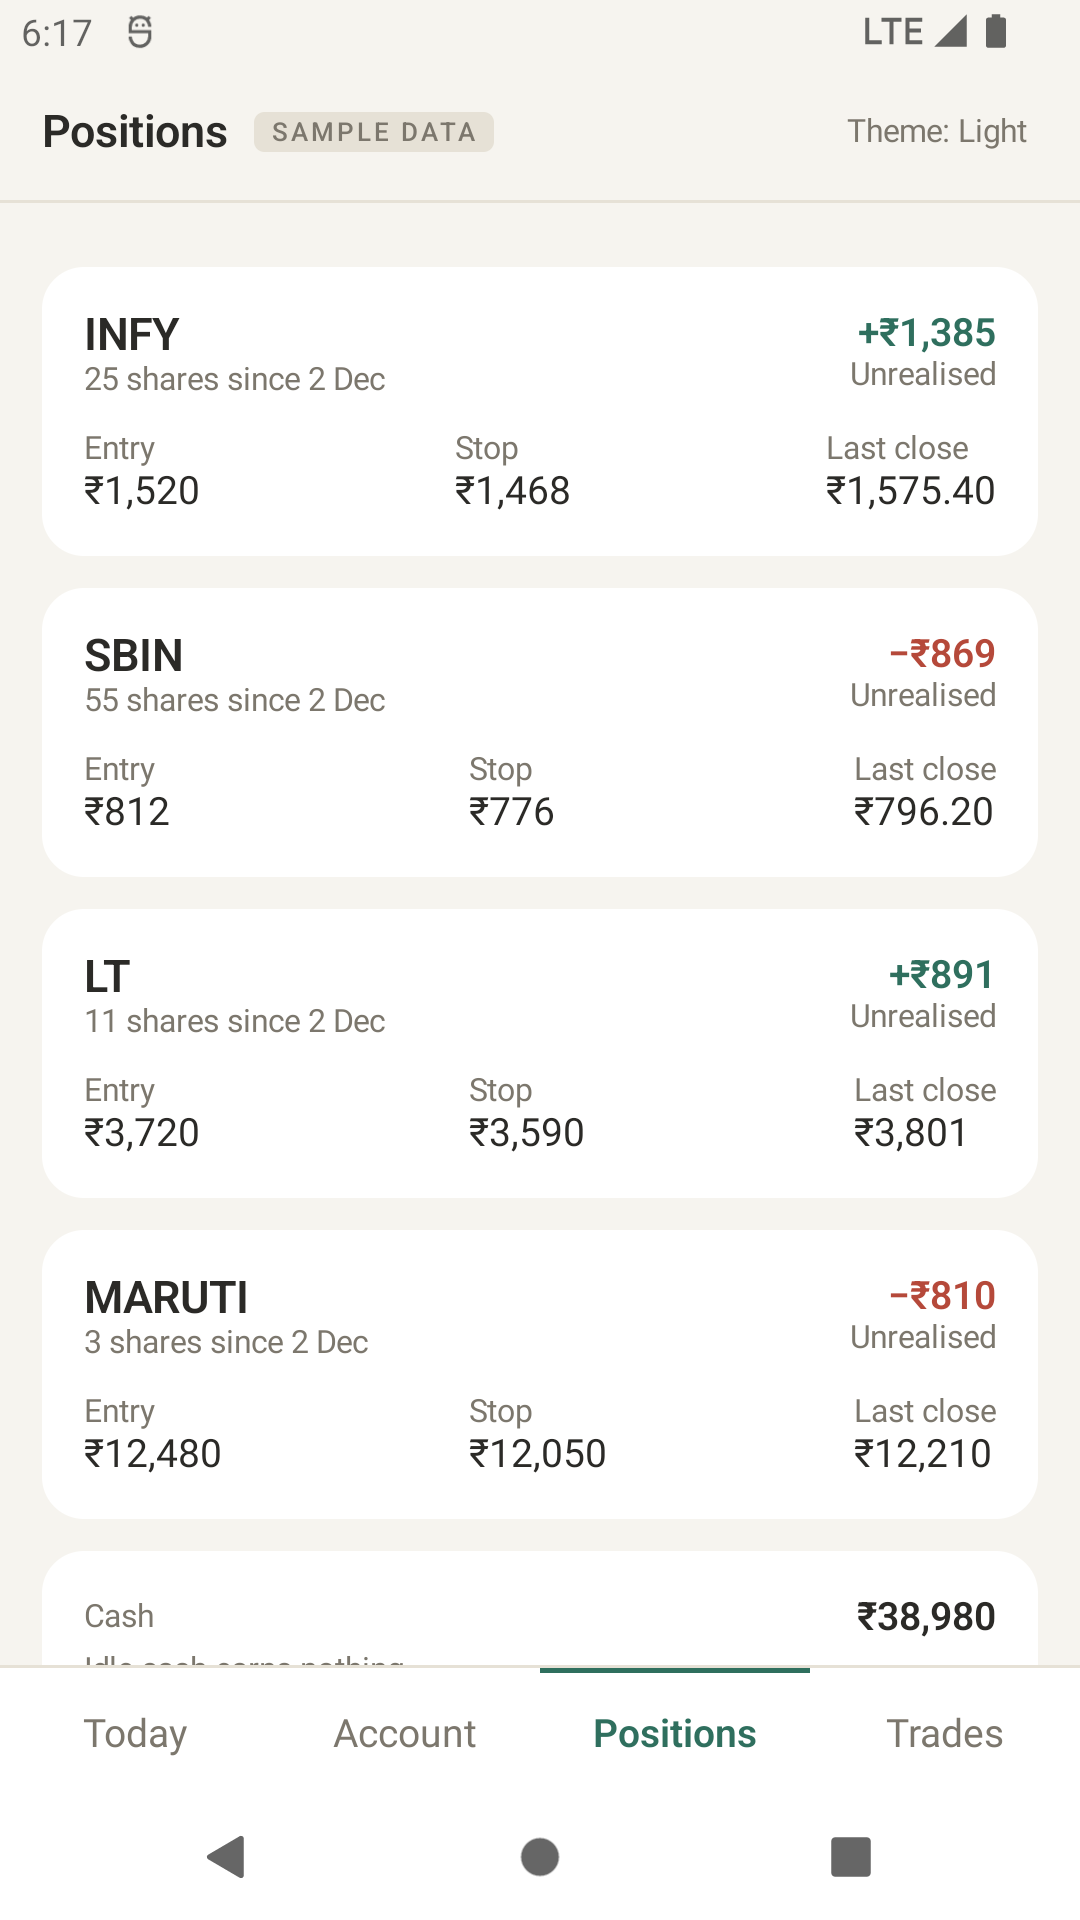
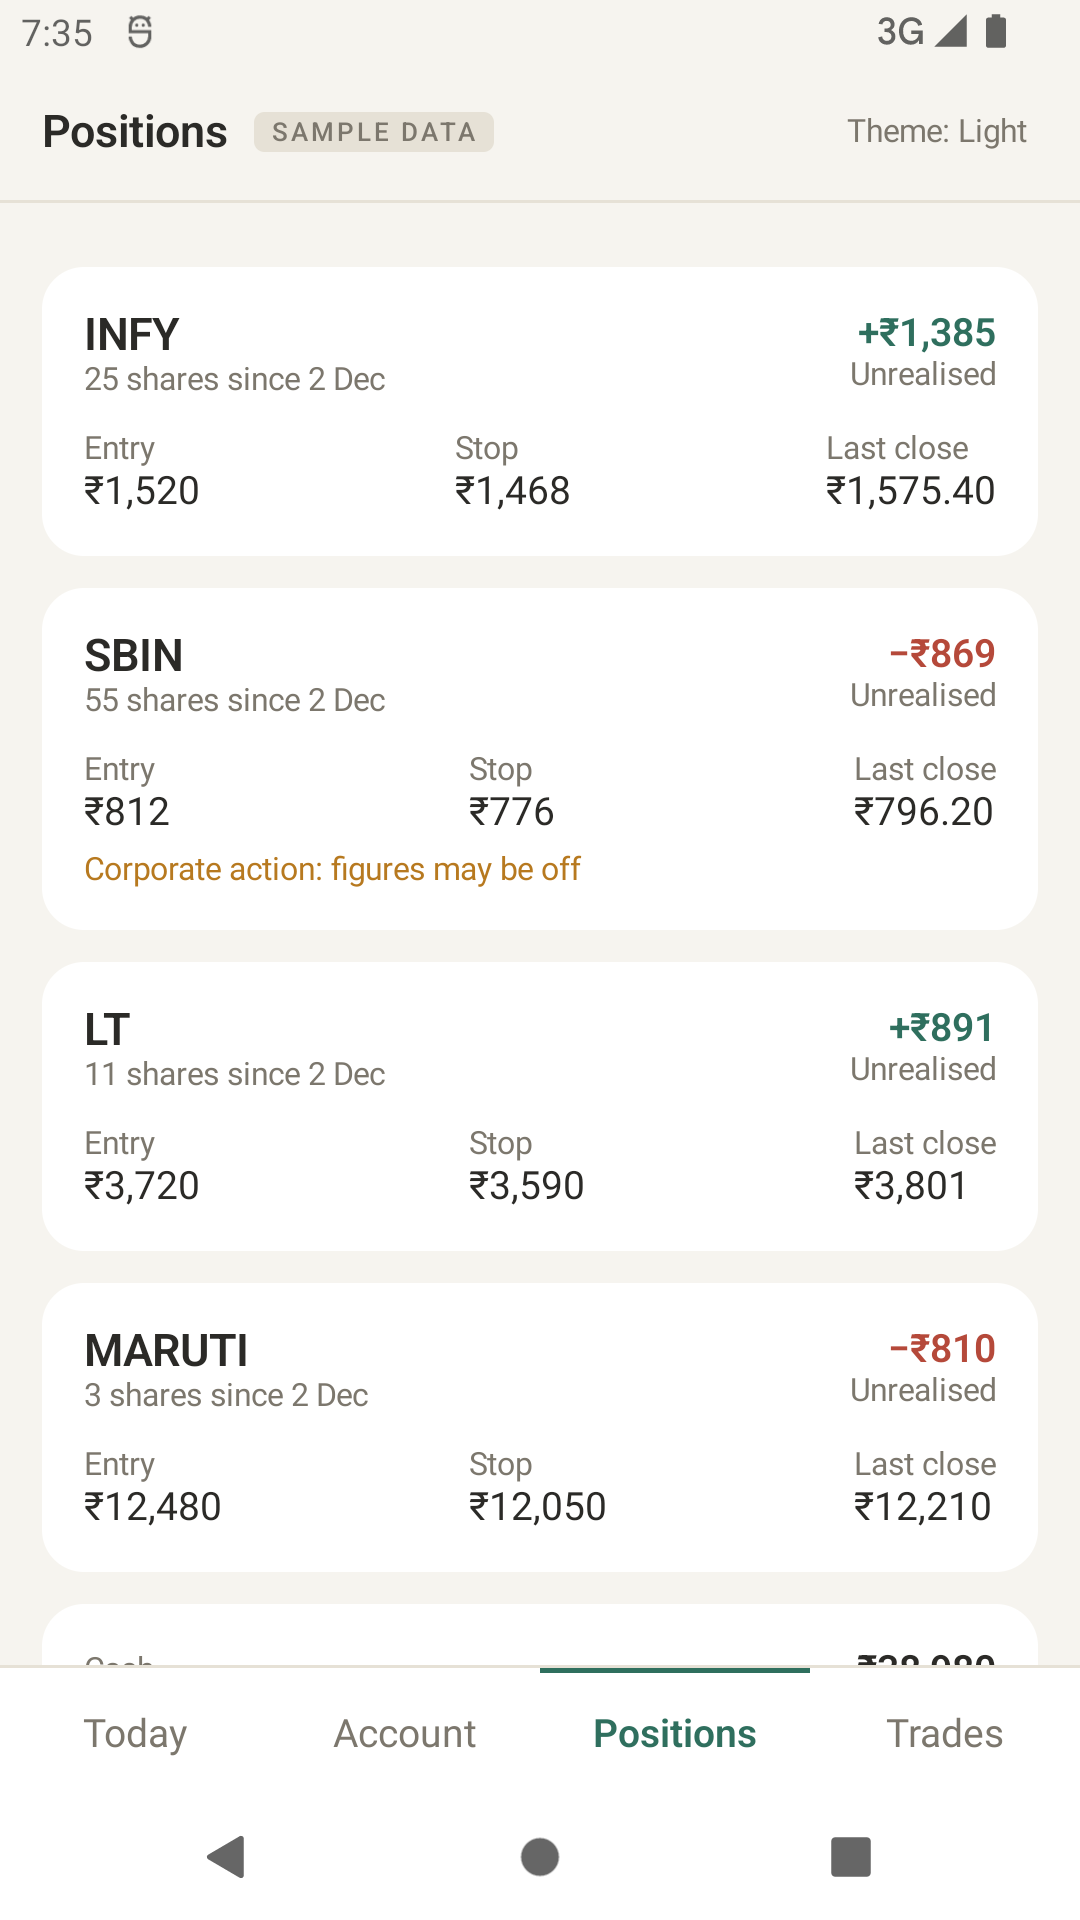
Stage 3: report, screenshots for the corporate-action note and footer

diff --git a/docs/bff/STAGE3_REPORT.md b/docs/bff/STAGE3_REPORT.md
@@ -1,0 +1,87 @@
+# Stage 3 report: the paper BFF
+
+## Summary
+
+The paper BFF is built and tested: a read-only FastAPI service in `bff\` that serves the frozen contract (apiVersion 1) from the paper state, the tickets folder and the lake, to the Android app (not connected yet; stage 4). A smoke run against the real data passed, and the service was stopped afterwards.
+
+- **Part A (additive contract change, done):** every closed trade is listed and counted in `closedTrades` and toward the 30-trade mark, flagged or not. A trade the engine flagged (`excluded_ca`) carries `corporateActionFlag: true`; win rate and profit factor leave flagged trades out; `stats.excludedFromStats` says how many. A position held by hand (`hold`) carries `corporateActionFlag: true`. Fields default to false and 0, so v1 stays compatible. In `openapi.yaml`, `CONTRACT.md`, the examples (exactly one flagged trade, ASIANPAINT in `trades_trades.json`, and one flagged position, SBIN in `positions_positions.json`), the app models, the card note "Corporate action: figures may be off", the Trades footer line "1 trade excluded: corporate action" (only when above zero) and the tests. The Trades footer now reads "45% (5 of 11)" because it divides by the unflagged trades; the example's profit factor is 1.62 (it was 1.4 before one loss was flagged).
+- **Part B (done):** `bff\app.py`, `run.py`, `sources.py`, `builders.py`, `models.py`, `config.py`, `smoke.py`, `paper_marks.yaml`; 212 new tests in `tests\bff\`; `docs\bff\README.md`; two rows in `docs\guides\CODEBASE_GUIDE.md`.
+- **Nothing existing changed:** no existing Python file was touched; the branch adds files under `bff\`, `tests\bff\`, `docs\bff\` and changes files under `android\` and `docs\android\`, plus the two guide rows.
+- **Left running:** nothing. The BFF is stopped. The token file is at `F:\Projects\Ravi\StockBotData\bff\token.txt` (created once, 32 random bytes as hex; never printed, logged or committed).
+
+## What was built
+
+| Piece | Notes |
+|---|---|
+| `GET /v1/health`, `/today`, `/account`, `/positions`, `/trades` | Exactly per `openapi.yaml`. Header `X-Paper-Token`, compared in constant time. 401 UNAUTHORIZED, 503 NOT_READY, 500 SERVER_ERROR, 404 (error body) for unknown routes, 405 for any write method. |
+| Network | Binds `STOCKBOT_BFF_HOST` (default 127.0.0.1) and `STOCKBOT_BFF_PORT` (default 8765; checked free; `run.py` exits 3 if it is not). TrustedHostMiddleware (default localhost and 127.0.0.1). No CORS unless `STOCKBOT_BFF_CORS` lists origins. Rotating access log `F:\Projects\Ravi\StockBotData\logs\bff.log` (path, status, time; headers never logged). |
+| Refusal to start | No token in `STOCKBOT_BFF_TOKEN` or the token file: exit 2. |
+| Data layer | Read-only connections (`mode=ro` plus `query_only`), 3 s busy timeout, one retry, then 503; nothing held between requests; lock files never read or written. |
+| Builders | Pure functions: fold the journal, rebuild positions, cash, closed trades and the daily curve; all money in whole paise. |
+| Caching | Built responses cached on (mtime and size of `live_state.db`, lake sealed-through date); `expectedAsOf` and `generatedAt` refreshed per request. No threads, no scheduler. |
+| `bff\smoke.py` | Calls every endpoint on a running instance, checks statuses, envelope, reconciliation, 401 and 404. |
+
+## How each gap in `SOURCE_MAP.md` was resolved
+
+(The map lists 15; the stage 2 report grouped the last four as "12 to 15".)
+
+1. **Paise.** `to_paise` rounds half up on the decimal text of the float, once per stored value. Totals are sums of those integers: equity = cash + sum(shares x last-close paise); unrealised = shares x (last - entry) paise; ticket risk = shares x (reference - stop) paise. The identities hold exactly (tests).
+2. **Start date and daily curve.** Start date = the first processed session (the earliest `decisions` row; the `init` row has no real date). The curve covers the lake's Nifty trading days from the start date to the data date; each day takes the state after the last processed session on or before it and marks open positions at that day's lake `close_raw` (falling back to the latest earlier close, then to the engine's own `last_close`). A missing Nifty close on the start or data date gives 503, not a guess.
+3. **Nifty rebasing.** `rebase`: starting capital in paise x close / close on the start date, half up, in `Decimal`.
+4. **GAP_THROUGH_STOP.** A `STOP_HIT` closed trade becomes `GAP_THROUGH_STOP` when the `decisions` row of its exit session holds a `GAP_THROUGH_STOP` flag for the same symbol; a flag for another symbol or another day does not count (tests).
+5. **Block reasons.** `BLOCKED_BY_RISK(sector_...)` is SECTOR_CAP; `(positions:...)`, `(total_risk:...)` and plain `BLOCKED_BY_RISK` are RISK_CAP; `SIZE_ZERO` at stage fill is CASH; everything else is OTHER (the full table is tested label by label). Sector comes from `data\reference\sector_map.csv` through the repository's `sector_for`; an `UNMAPPED:` value is sent as null.
+6. **expectedAsOf.** See the next section.
+7. **Review marks.** `bff\paper_marks.yaml`: 35.0 percent, 30 trades, verdict `NOT_DEMONSTRATED`, sent as "not demonstrated". The risk per trade is read from `shared.yaml`.
+8. **Signal day.** `isSignalDay` is true when there are tickets, else the repository's own `is_signal_session` run on the lake's last two Nifty dates (imported lazily and warmed at start; it takes about 9 s the first time). `nextSignalRule` is the constant "first trading day of next month".
+9. **Drawdown history.** Now and worst come from the daily curve: running peak of the daily equity at the close, two decimals, positive.
+10. **Closed-trade definition.** Owner decision (Part A): all trades listed and counted; flagged ones excluded from the win rate and profit factor.
+11. **Reads during the jobs.** Read-only connections, 3 s timeout, one retry, then 503 NOT_READY; no lock is taken. Tested with an exclusive lock held on the lake.
+12. **Held-by-hand positions.** Listed, with `corporateActionFlag: true`.
+13. **Sector for a position.** Not sent (the app does not show it).
+14. **Pending-exit text.** A position with `pending_exit > 0` is a pending SELL: "Time exit queued at the close", "Stop exit queued at the close" or "Exit queued at the close". There are no pending BUYs (a pending ticket is always the signal day's own ticket, already in `tickets`).
+15. **Auth and hosting.** Token and trusted hosts are built; hosting and the Tailscale address are stage 4.
+
+## The expectedAsOf rule and its limit
+
+`expectedAsOf` = start from today if it is 20:30 IST or later, otherwise from yesterday; then step back over weekends and over days the daily data job recorded as having no file (`daily\calendar.csv`, outcome `NO_FILE` or `NO_FILE_FINAL`, unless a later row shows the day loaded). `dataAsOf` = the newest session the paper account has processed.
+
+**Limit:** a holiday the data job has not recorded yet looks like a missing day. The job records a no-file day only after its attempts (a day stays PENDING until 23:45), so on a new weekday holiday the app can show "Updated N days ago" until the job has recorded it. Weekends and recorded holidays are never wrong. Before 20:30 on a day whose job has not run, data from the previous trading day is correct, not stale.
+
+## Tests
+
+- `py -m pytest tests\bff`: **212 passed** (about 20 s; 9 s of that is the one-time load of the strategy for the signal-day function). Temporary files only; the real state and lake are never opened.
+- Covered: every endpoint for each of the six scenarios against the shape of its example (same keys and types, enums valid); every reconciliation rule; flagged trades and positions; GAP_THROUGH_STOP join; block and exit reason tables; `expectedAsOf` (Friday data on a Monday morning, 20:30 cutoff, weekends, recorded holidays, the documented limit); money rounding; Nifty rebasing; drawdowns; stats with flagged, empty and no-loss cases; 401 for a missing, empty or wrong token on every endpoint; 404 and 405 with the error body; 503 for a missing state, an uninitialised state, a locked lake and a missing Nifty day; 500 without leaking text; wrong Host refused; no CORS by default; read-only proof (create, insert, delete and drop all raise); no file in the state, tickets or lake folders changes while serving; the token never appears in the log or a repr; cache hit, rebuild on a changed key, fresh envelope times on a hit; refusal to start without a token; a static guard that `bff\*.py` has no write SQL, no lock code, no `stockbot.live` import and no broker or order code.
+- `tests\bff\test_contract_models.py` validates every example file against the pydantic models, round-trips them, and checks that the models' fields and enums match `openapi.yaml`: the contract is the single source.
+- Guide test only: `py -m pytest tests\unit\test_guides_consistent.py`: 11 passed, 1 skipped (needs `STOCKBOT_DATA_TESTS=1`). The full suite was not run.
+- Android: `gradlew test assembleDebug lintDebug --no-daemon`: BUILD SUCCESSFUL; 49 JVM tests, 0 failures; lint 0 errors, 5 warnings (the same five as before). APK rebuilt to `F:\Projects\Ravi\StockBotData\android\stockbot-paper-debug.apk`.
+
+## Smoke results (the only time real data was touched)
+
+Run at 19:32 IST on 24 Nov 2026, with `STOCKBOT_BFF_HOST=127.0.0.1`, a new hidden process (`py -3 bff\run.py`), the real token file.
+
+- Every check passed (`SMOKE PASSED`): health, today, account, positions, trades all 200 with the envelope, `+05:30` timestamps, curve starting at the starting capital and ending at equity, cash + positions = account equity; no token and a wrong token gave 401 UNAUTHORIZED; an unknown route gave 404 with the error body.
+- `/v1/account`: start date **2026-11-23**, equity **20,000,000 paise (Rs 2,00,000)**, cash 20,000,000, return 0.0%, 0 closed trades, data as of 2026-11-23. `/v1/health`: status ok, latest sealed date 2026-11-23, expectedAsOf 2026-11-23 (before 20:30 IST, so the previous trading day).
+- `/v1/today` matched the newest real ticket file (`state\tickets\tickets_2026-11-23.json`): not a signal day, no tickets, no blocked, no pending.
+- **Read-only:** every connection to `live_state.db` and `finsight.db` was opened `mode=ro` with `query_only` (the code path has no other way to open them). The BFF created, modified or locked nothing in `state\` or `locks\`: the file names, sizes and modification times of both folders were identical before and after. **One thing to know:** the lake runs in WAL mode, so any reader, including the repository's own read-only opener, updates the modification time of the existing `finsight.db-shm` (and `-wal`) files; no new file appeared and `finsight.db` itself was not modified (same size and time). This is how SQLite readers work and cannot be avoided without reading a possibly inconsistent file.
+- **Scheduler service:** pid **9100** before and after; no new line in `scheduler_service.log` from the smoke time (the job's own 19:30 attempt, exit 3 and a retry planned for 19:50, was logged before the smoke and is not related).
+- The BFF was stopped by killing only its own pid (the listener and its launcher); port 8765 was free afterwards. The access log `bff.log` shows the nine smoke requests with no token.
+
+## Deviations and notes
+
+1. **Port:** 8765 was free; no other port was needed.
+2. **`/v1/health` when the data is not ready** returns 200 with `status: "not_ready"` (not 503), and `dataAsOf` falls back to the sealed date, then the last processed session, then `expectedAsOf`, because the contract requires a date there.
+3. **Error body for unknown routes and wrong methods** uses the code `SERVER_ERROR` with HTTP 404 or 405 (the contract has only three codes).
+4. **The Today response has no pending BUY rows** (see gap 14).
+5. **Win rate denominator** is the unflagged trades (`tradeCount - excludedFromStats`), so the app shows "5 of 11" for 12 trades with one flagged.
+6. **Screens:** the Positions and Trades screens changed visibly (the new note and footer line), so those four screenshots were re-taken on the AVD, plus one extra (`extra-dark-trades-footer.png`). The other screens are unchanged.
+7. **WAL files:** see the smoke section.
+8. **The BFF reads the real `shared.yaml`** (a repository file) for the risk percent; tests use a temporary copy.
+
+## For stage 4
+
+- The INTERNET permission in the app (and nothing else new in the manifest).
+- The app's network repository (replace the mock source; the parsing is already the real one), pull-to-refresh and the token entry on the phone.
+- The Tailscale address: set `STOCKBOT_BFF_HOST` to the machine's Tailscale address (not 0.0.0.0) and `STOCKBOT_BFF_ALLOWED_HOSTS` to the hostnames the app will use; check the firewall.
+- Starting the BFF on a schedule or at boot (today it is started by hand in its own window, like the scheduler service, and does not survive a reboot).
+- TLS (Tailscale encrypts the link; the app would use plain HTTP over it, or Tailscale's HTTPS certificate if wanted).
+- A real holiday calendar, if the "Updated N days ago" limit on an unrecorded holiday turns out to be annoying.
